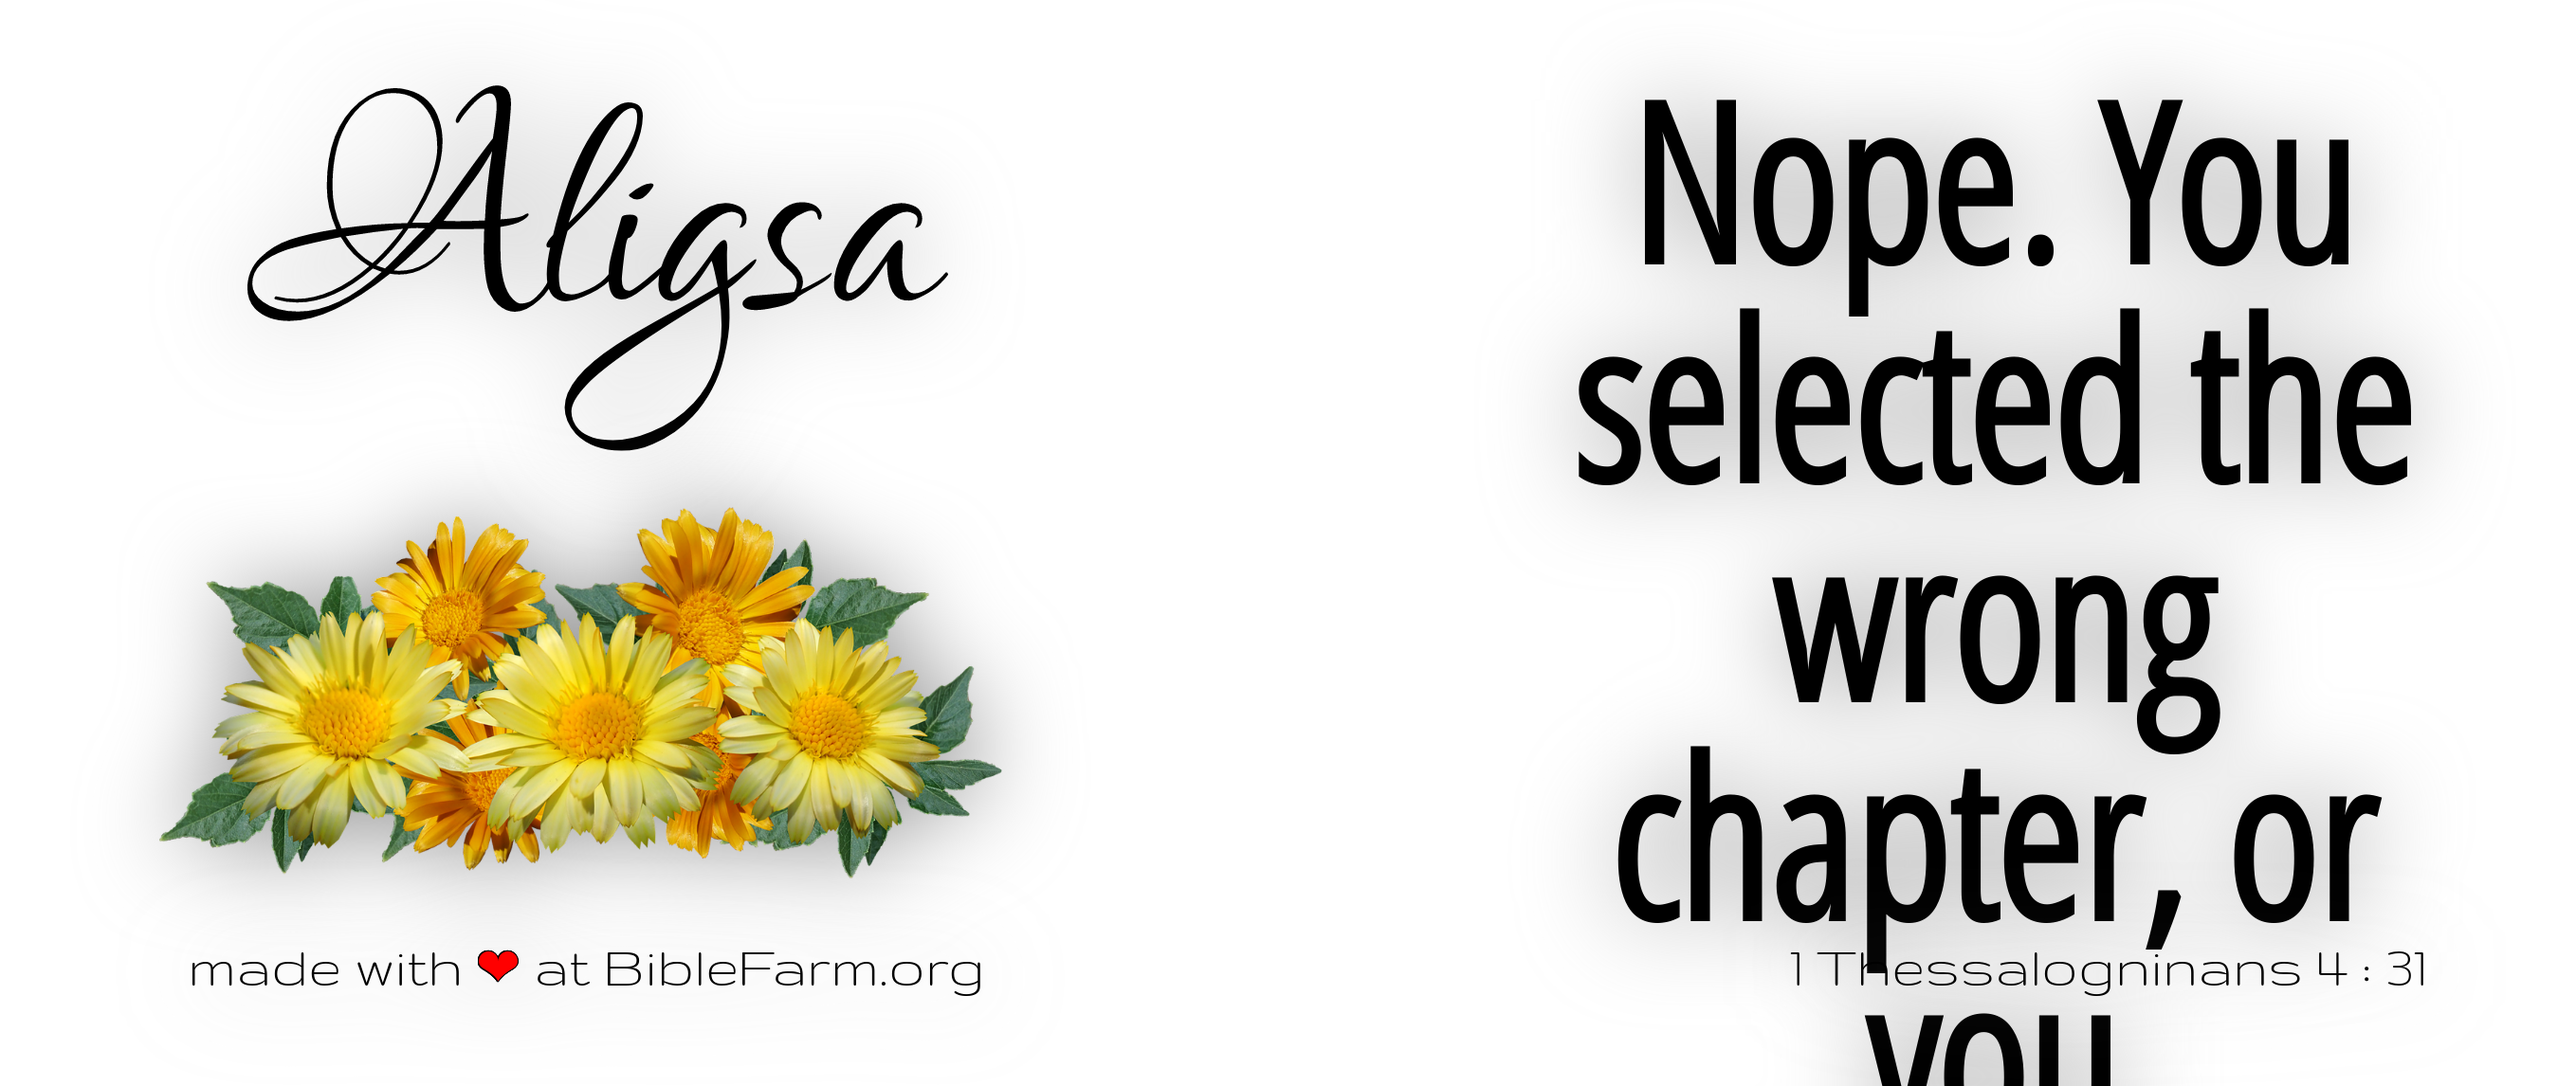
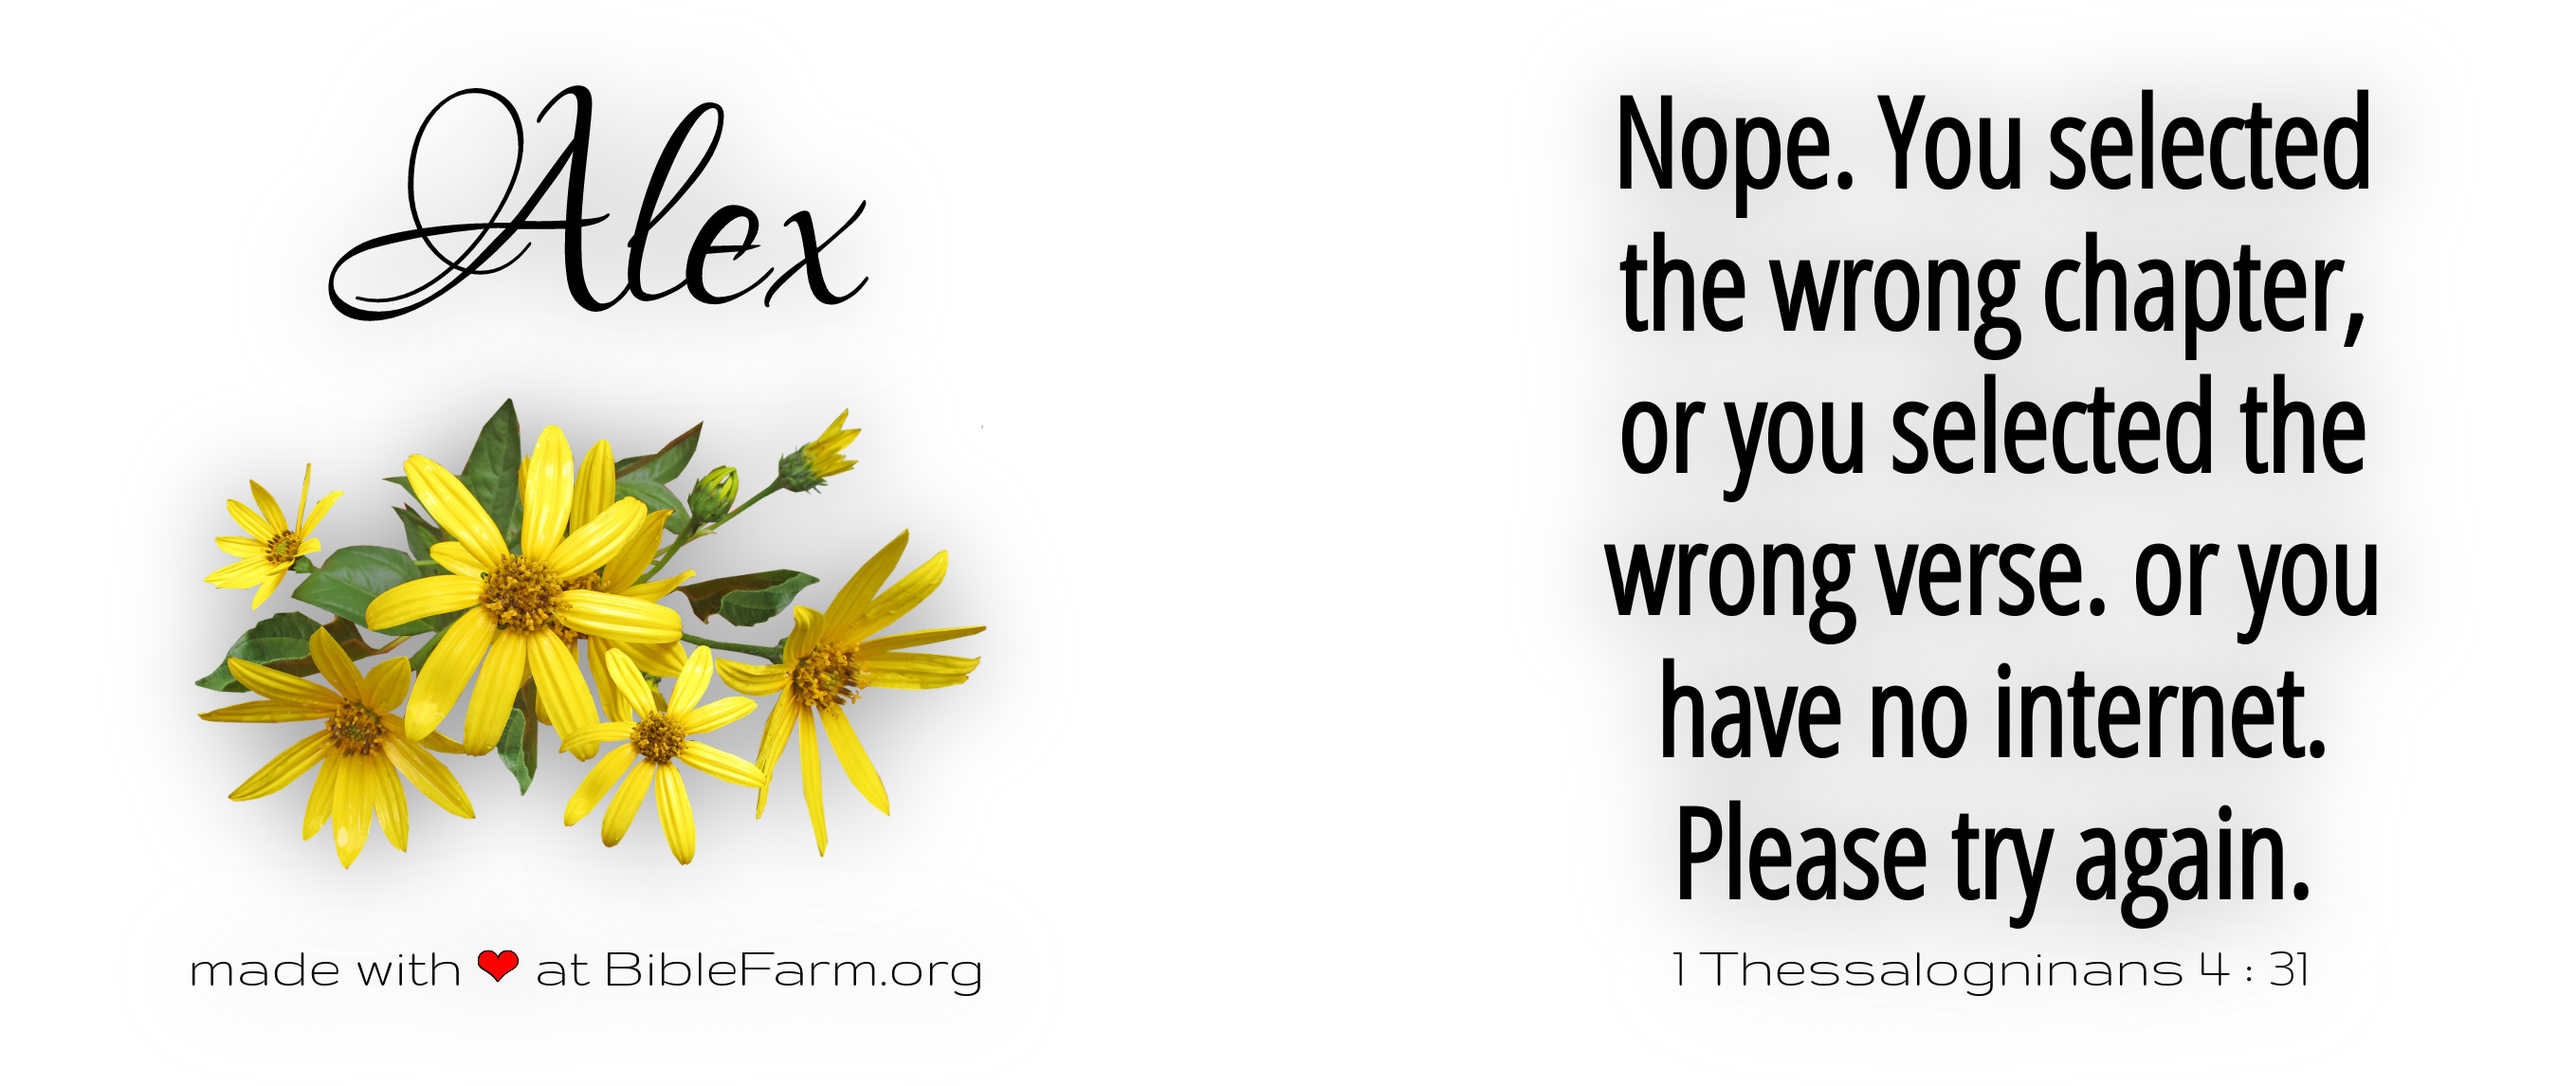
.

Changed region(s): [[0.0618, 0.0611, 0.4019, 0.8246], [0.6183, 0.4887, 0.9275, 1.0], [0.5874, 0.0916, 0.9584, 0.4581]]

diff --git a/_ALL-UIs/CUSTOM_CAT_RENDER_HERE/0012.html b/_ALL-UIs/CUSTOM_CAT_RENDER_HERE/0012.html
@@ -315,6 +315,44 @@ width: 2717px;
 height: 1146px;
 }
 #hidden_book_desired, #hidden_chapter_desired, #hidden_verse_desired {display: none;}
+.copied_saving_path_to_clipboard {
+position: fixed;
+display: none;
+    top: 2508px;
+    left: 1000px;
+    text-align: center;
+    width: 1000px;
+    height: 100px;
+    z-index: 5;
+    font-size: 70px;
+    background: red;
+    color: white;
+    padding: 10px;
+    font-weight: bold;
+}
+.copy_node_command {
+    position: fixed;
+    top: 3500px;
+height: 300px;
+    width: 600px;
+    background: aqua;
+    font-size: 100px;
+}
+.copied_node_command_to_clipboard {
+position: fixed;
+    display: none;
+    top: 3500px;
+    left: 700px;
+    text-align: center;
+    width: 800px;
+    height: 300px;
+    z-index: 5;
+    font-size: 80px;
+    background: brown;
+    color: white;
+    padding: 10px;
+    font-weight: bold;
+}
 </style></head>
 
 
@@ -342,11 +380,11 @@ height: 1146px;
 </div>
 
 <div class="CUSTOMER_NAME_table">
-<span class="CUSTOMER_NAME_table-cell"><span style="font-size: 399px;">Aligsa</span></span>
+<span class="CUSTOMER_NAME_table-cell"><span style="font-size: 399px;">Alex</span></span>
 </div>
 
-<div class="CUSTOMER_FLOWER_table" style="top: 480px;">
-<span class="CUSTOMER_FLOWER_table-cell"><img class="CUSTOMER_FLOWER_img" width="" height="" src="../../p-original-size/f-012.png" alt=""></span>
+<div class="CUSTOMER_FLOWER_table" style="top: 420px;">
+<span class="CUSTOMER_FLOWER_table-cell"><img class="CUSTOMER_FLOWER_img" width="" height="" src="../../p-original-size/f-021.png" alt=""></span>
 </div>
 
 <div class="MADE_WITH_LOVE_table">
@@ -356,10 +394,10 @@ made with <span class="heart" style="text-shadow: rgb(0, 0, 0) 1px 0px 0px, rgb(
 </div>
 
 <div class="CUSTOMER_VERSE_table">
-<span class="CUSTOMER_VERSE_table-cell populated_verse_with_ajax"><span style="font-size: 230px; line-height: 231px;">Nope. You selected the wrong chapter, or you selected the wrong verse. or you have no internet. Please try again.</span></span>
+<span class="CUSTOMER_VERSE_table-cell populated_verse_with_ajax"><span style="font-size: 130px; line-height: 150px;">Nope. You selected the wrong chapter, or you selected the wrong verse. or you have no internet. Please try again.</span></span>
 </div>
 
-<div class="CUSTOMER_REF_table" style="left: 1774px;">
+<div class="CUSTOMER_REF_table">
 <span class="CUSTOMER_REF_table-cell populated_ref_with_ajax">
 1 Thessalogninans 4 : 31
 </span>
@@ -1839,8 +1877,9 @@ made with <span class="heart" style="text-shadow: rgb(0, 0, 0) 1px 0px 0px, rgb(
 <div class="wrap_downloadable_image">
 </div>
 
-
-
+<div class="copied_saving_path_to_clipboard" style="display: block; overflow: hidden; height: 0px; padding: 0px; margin: 0px; width: 0px; opacity: 0;">copied saving path to clipboard</div>
+<button class="copy_node_command">copy node command</button>
+<div class="copied_node_command_to_clipboard">copied node command to clipboard</div>
 
   <!-- jQuery -->
   <script src="../../shop_js/o_jquery-310.min.js" type="text/javascript"></script>
@@ -2085,6 +2124,23 @@ $( "#removeGuidelines" ).on( "click", function() {
 // END button to remove guidelines
 
     $('#SaveHTMLpage').click(function(){
+	
+// get & copy the path to clipboard, of where I want to save this node js file that creates the landing page & the picture
+var pathToSaveHTMLandJSfiles = "/media/demo/ALL-MY-DATA/org/_ALL-UIs/CUSTOM_CAT_RENDER_HERE//";
+var thisOrderID = $("#order_id").val();
+var completeThingToCopyToClipboard = (pathToSaveHTMLandJSfiles + thisOrderID);
+console.log(completeThingToCopyToClipboard);
+    var $tempElement = $("<input>");
+        $("body").append($tempElement);
+        $tempElement.val(completeThingToCopyToClipboard).select();
+        document.execCommand("Copy");
+        $tempElement.remove();
+// show copied_saving_path_to_clipboard for a sec
+$(".copied_saving_path_to_clipboard").show("slow");
+setTimeout(function(){
+$(".copied_saving_path_to_clipboard").hide();
+}, 2000);
+	
 var order_id = $('#order_id').val();
       // fill the show_order_id div
       $('#show_order_id').text(order_id);
@@ -2540,7 +2596,7 @@ var step1_next_step2TimeoutID = setTimeout(function() {
 var willGrabBook = $('#hidden_book_desired').text();
 var willGrabChapter = $('#hidden_chapter_desired').text();
 var willGrabVerse = $('#hidden_verse_desired').text();
-var completeVerseURLtoGrab = ('../data_files/_YourNameHere_/' + willGrabBook + '/' + willGrabBook + '-' + willGrabChapter + '-' + willGrabVerse + '.html');
+var completeVerseURLtoGrab = ('../../data_files/_YourNameHere_/' + willGrabBook + '/' + willGrabBook + '-' + willGrabChapter + '-' + willGrabVerse + '.html');
 console.log("completeVerseURLtoGrab is: " + completeVerseURLtoGrab);
 // Assign handlers immediately after making the request,
 // and remember the jqxhr object for this request
@@ -2767,7 +2823,7 @@ var step1_next_step2TimeoutID = setTimeout(function() {
 var willGrabBook = $('#hidden_book_desired').text();
 var willGrabChapter = $('#hidden_chapter_desired').text();
 var willGrabVerse = $('#hidden_verse_desired').text();
-var completeVerseURLtoGrab = ('../data_files/_YourNameHere_/' + willGrabBook + '/' + willGrabBook + '-' + willGrabChapter + '-' + willGrabVerse + '.html');
+var completeVerseURLtoGrab = ('../../data_files/_YourNameHere_/' + willGrabBook + '/' + willGrabBook + '-' + willGrabChapter + '-' + willGrabVerse + '.html');
 console.log("completeVerseURLtoGrab is: " + completeVerseURLtoGrab);
 // Assign handlers immediately after making the request,
 // and remember the jqxhr object for this request
@@ -2922,6 +2978,31 @@ $(".DesignCustomerOrdersUI_imput_ORDER").focus();
 
 
 
+///////////////////////////////////////
+// BEGIN create & copy node command to clipboard
+///////////////////////////////////////
+    $(".copy_node_command").click(function(event){
+
+var changeDirectory = "cd /media/demo/ALL-MY-DATA/org/_ALL-UIs/CUSTOM_CAT_RENDER_HERE/\n";
+var theWordNode = "node ";
+var thisOrderToRun = $("#order_id").val();
+var completeNodeCommandToCopyToClipboard = (changeDirectory + theWordNode + thisOrderToRun + ".js\n");
+console.log(completeNodeCommandToCopyToClipboard);
+var $tempElementTextArea = $("<textarea>");
+        $("body").append($tempElementTextArea);
+        $tempElementTextArea.val(completeNodeCommandToCopyToClipboard).select();
+        document.execCommand("Copy");
+        $tempElementTextArea.remove();
+// show copied_saving_path_to_clipboard for a sec
+$(".copied_node_command_to_clipboard").show("slow");
+setTimeout(function(){
+$(".copied_node_command_to_clipboard").hide();
+}, 2000);
+
+    });
+///////////////////////////////////////
+// END create & copy node command to clipboard
+///////////////////////////////////////
 
 
 

diff --git a/_ALL-UIs/CUSTOM_CAT_DESIGN_HERE/CustomCat_Complete_11oz_Mug_ArtTemplate_Working.html b/_ALL-UIs/CUSTOM_CAT_DESIGN_HERE/CustomCat_Complete_11oz_Mug_ArtTemplate_Working.html
@@ -319,6 +319,44 @@ width: 2717px;
 height: 1146px;
 }
 #hidden_book_desired, #hidden_chapter_desired, #hidden_verse_desired {display: none;}
+.copied_saving_path_to_clipboard {
+position: fixed;
+display: none;
+    top: 2508px;
+    left: 1000px;
+    text-align: center;
+    width: 1000px;
+    height: 100px;
+    z-index: 5;
+    font-size: 70px;
+    background: red;
+    color: white;
+    padding: 10px;
+    font-weight: bold;
+}
+.copy_node_command {
+    position: fixed;
+    top: 3500px;
+height: 300px;
+    width: 600px;
+    background: aqua;
+    font-size: 100px;
+}
+.copied_node_command_to_clipboard {
+position: fixed;
+    display: none;
+    top: 3500px;
+    left: 700px;
+    text-align: center;
+    width: 800px;
+    height: 300px;
+    z-index: 5;
+    font-size: 80px;
+    background: brown;
+    color: white;
+    padding: 10px;
+    font-weight: bold;
+}
 </style>
 
 <body>
@@ -1847,8 +1885,9 @@ Pero los que esperan a Jehová tendrán nuevas fuerzas; levantarán alas como la
 <div class="wrap_downloadable_image">
 </div>
 
-
-
+<div class="copied_saving_path_to_clipboard">copied saving path to clipboard</div>
+<button class="copy_node_command">copy node command</button>
+<div class="copied_node_command_to_clipboard">copied node command to clipboard</div>
 
   <!-- jQuery -->
   <script src="../../shop_js/o_jquery-310.min.js" type="text/javascript"></script>
@@ -2093,6 +2132,23 @@ $( "#removeGuidelines" ).on( "click", function() {
 // END button to remove guidelines
 
     $('#SaveHTMLpage').click(function(){
+	
+// get & copy the path to clipboard, of where I want to save this node js file that creates the landing page & the picture
+var pathToSaveHTMLandJSfiles = "/media/demo/ALL-MY-DATA/org/_ALL-UIs/CUSTOM_CAT_RENDER_HERE//";
+var thisOrderID = $("#order_id").val();
+var completeThingToCopyToClipboard = (pathToSaveHTMLandJSfiles + thisOrderID);
+console.log(completeThingToCopyToClipboard);
+    var $tempElement = $("<input>");
+        $("body").append($tempElement);
+        $tempElement.val(completeThingToCopyToClipboard).select();
+        document.execCommand("Copy");
+        $tempElement.remove();
+// show copied_saving_path_to_clipboard for a sec
+$(".copied_saving_path_to_clipboard").show("slow");
+setTimeout(function(){
+$(".copied_saving_path_to_clipboard").hide();
+}, 2000);
+	
 var order_id = $('#order_id').val();
       // fill the show_order_id div
       $('#show_order_id').text(order_id);
@@ -2930,6 +2986,31 @@ $(".DesignCustomerOrdersUI_imput_ORDER").focus();
 
 
 
+///////////////////////////////////////
+// BEGIN create & copy node command to clipboard
+///////////////////////////////////////
+    $(".copy_node_command").click(function(event){
+
+var changeDirectory = "cd /media/demo/ALL-MY-DATA/org/_ALL-UIs/CUSTOM_CAT_RENDER_HERE/\n";
+var theWordNode = "node ";
+var thisOrderToRun = $("#order_id").val();
+var completeNodeCommandToCopyToClipboard = (changeDirectory + theWordNode + thisOrderToRun + ".js\n");
+console.log(completeNodeCommandToCopyToClipboard);
+var $tempElementTextArea = $("<textarea>");
+        $("body").append($tempElementTextArea);
+        $tempElementTextArea.val(completeNodeCommandToCopyToClipboard).select();
+        document.execCommand("Copy");
+        $tempElementTextArea.remove();
+// show copied_saving_path_to_clipboard for a sec
+$(".copied_node_command_to_clipboard").show("slow");
+setTimeout(function(){
+$(".copied_node_command_to_clipboard").hide();
+}, 2000);
+
+    });
+///////////////////////////////////////
+// END create & copy node command to clipboard
+///////////////////////////////////////
 
 
 
